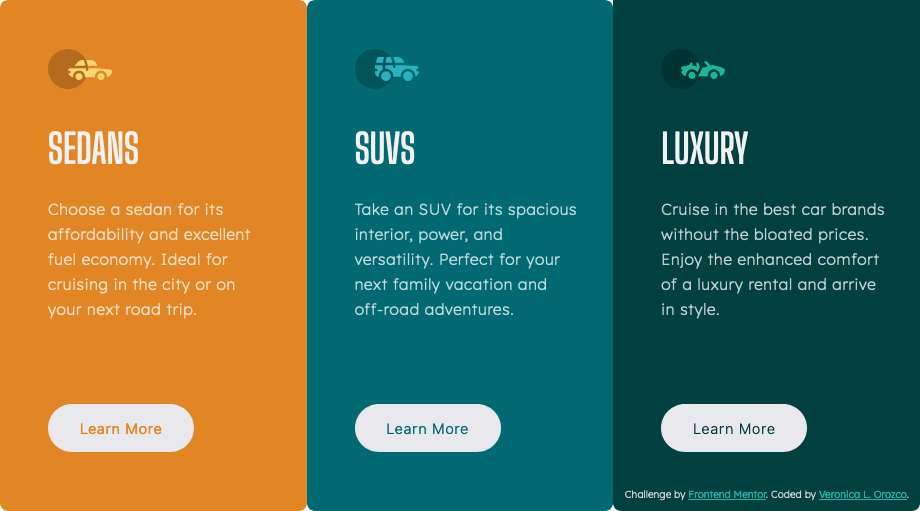
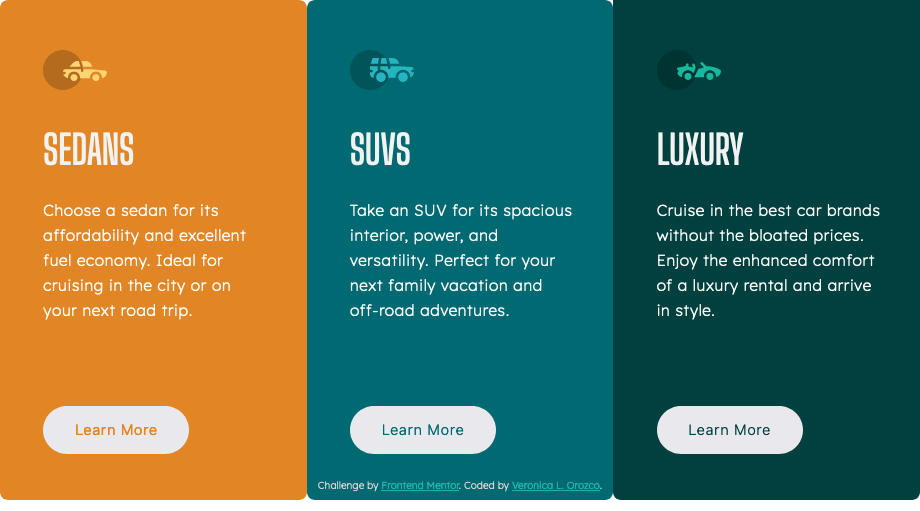
Update media query
media query changed margin-left on content

retake image for desktopView and upload

diff --git a/styles.css b/styles.css
@@ -21,6 +21,7 @@ body {
   margin: 0;
   padding: 0;
   width: 100%;
+  height: 442px;
   background-color: #FFF;
 
   font-family: 'Lexend Deca';
@@ -43,7 +44,6 @@ body {
 
 /* CARD | LAYOUT */
 .card {
-  height: 442px;
   width: 100%;
 }
 .card1, .card2 {
@@ -102,7 +102,6 @@ body {
   font-weight: 600;
   line-height: 48px;
   letter-spacing: 0px;
-  text-align: left;
   text-transform: uppercase;
   color: #F2F2F2;
 }
@@ -112,8 +111,6 @@ body {
   line-height: 25px;
   letter-spacing: 0.7px;
   color: #FFFFFF;
-  mix-blend-mode: normal;
-  opacity: 0.75;
 }
 .card-button {
   font-size: 14.7px;
@@ -121,7 +118,6 @@ body {
   line-height: 25px;
   letter-spacing: 0.7px;
   color: #E28625;
-  opacity: 1;
   cursor: pointer;
 }
   .btn1 {
@@ -156,6 +152,9 @@ body {
 
 /* 4. MEDIA QUERY */
 @media screen and (min-width: 700px) {
+  body {
+    height: 500px;
+  }
   .container {
     flex-direction: row;
     height: 500px;
@@ -174,7 +173,7 @@ body {
   }
     .card-content {
       width: 220px;
-      margin-left: 48px;
+      margin-left: 0;
       margin-top: 48.5px;
     }
     .card-description {
